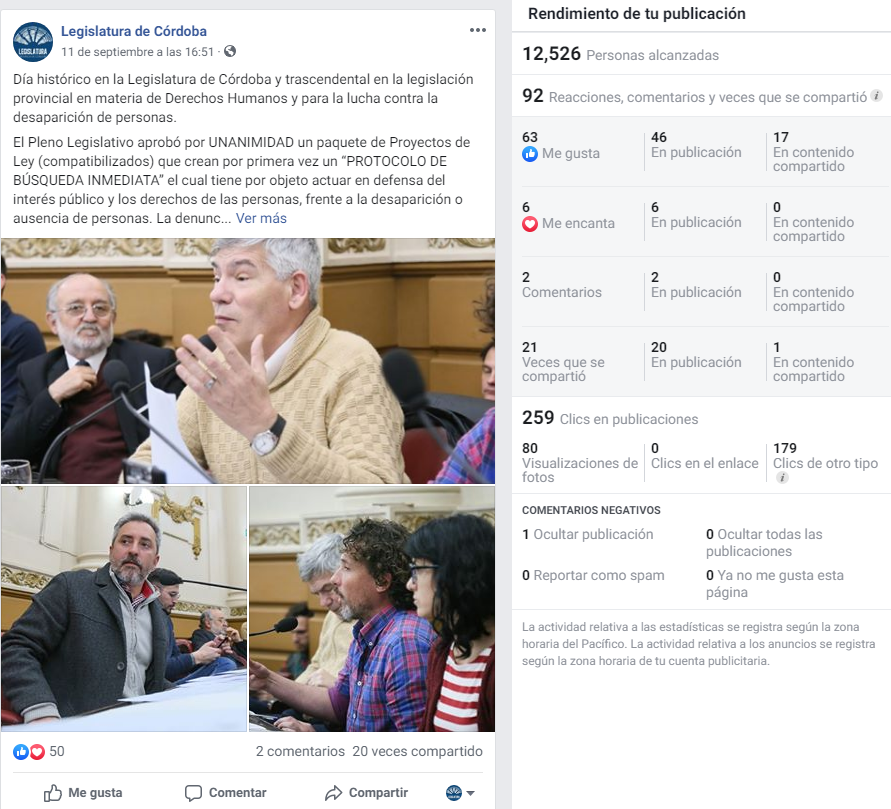
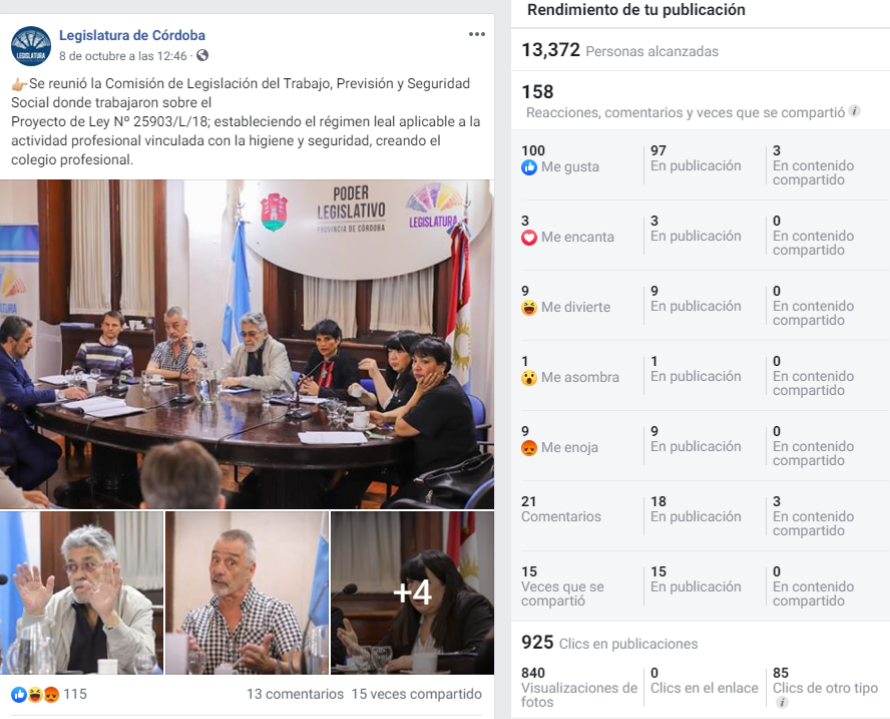
legis oct 19

diff --git a/legislatura.html b/legislatura.html
@@ -54,7 +54,7 @@
 
 	                <div class="row">
 	                    <div class="col-md-8" >
-	                    	<h2 class="text-medium">Campaña Septiembre</h2>
+	                    	<h2 class="text-medium">Campaña Octubre</h2>
 	                        <h2 class="">Objetivo:</h2>
 	                        <p><span class="objetivos">1</span> Generar posicionamiento de la marca = Alcance y seguidores</p>
 	                        <p><span class="objetivos">2</span> Generar Interacciones</p>
@@ -89,7 +89,8 @@
 							<li class=""><a href="#jun">Junio</a> </li>
 							<li class=""><a href="#jul">Julio</a> </li>
 							<li class=""><a href="#ago">Agosto</a> </li>
-							<li class="active"><a href="#sep">Septiembre</a> </li>
+							<li class=""><a href="#sep">Septiembre</a> </li>
+							<li class="active"><a href="#oct">Octubre</a> </li>
 						
 						</ul>
 						<div class="tabs-content">
@@ -202,7 +203,7 @@
 					            </div>
 							</div>
 
-							<div class="tab-pane active" id="sep">
+							<div class="tab-pane" id="sep">
 								<!-- <h4 class="text-light m-b-50">Enero</h4> -->
 								<div class="row text-light">
 									<div class="col-md-4">
@@ -238,6 +239,42 @@
 					            </div>
 							</div>
 
+							<div class="tab-pane active" id="oct">
+								<!-- <h4 class="text-light m-b-50">Enero</h4> -->
+								<div class="row text-light">
+									<div class="col-md-4">
+
+										<div class="text-center">
+											<div class="icon"><i class="fa fa-3x fa-eye"></i></div>
+											<div class="counter"> <span data-speed="2000" data-refresh-interval="23" data-to="40985" data-from="0" data-seperator="true"></span> </div>
+											<div class="seperator seperator-small"></div>
+											<p class="m-b-10"> <a href="#" data-toggle="tooltip" data-placement="top" title="Número de personas que vieron tus anuncios por lo menos una vez"><i class="fa fa-info-circle"></i></a> Alcance</p>
+										   
+										</div>
+									</div>
+									<div class="col-md-4">
+
+										<div class="text-center">
+											<div class="icon"><i class="fa fa-3x fa-hand-pointer-o"></i></div>
+											<div class="counter"> <span data-speed="1000" data-refresh-interval="50" data-to="10191" data-from="0" data-seperator="true"></span> </div>
+											<div class="seperator seperator-small"></div>
+											
+											<p class="m-b-10"><a href="#" data-toggle="tooltip" data-placement="top" title="Número total de acciones que las personas realizan en relación con tus anuncios"><i class="fa fa-info-circle"></i></a> Interacciónes con publicaciones</p>
+										</div>
+									</div>
+				                    <div class="col-md-4">
+
+				                        <div class="text-center">
+				                            <div class="icon"><i class="fa fa-3x fa-thumbs-o-up"></i></div>
+				                            <div class="counter"> <span data-speed="300" data-refresh-interval="12" data-to="6374" data-from="0" data-seperator="true"></span> </div>
+				                            <div class="seperator seperator-small"></div>
+				                            <p class="m-b-10">Seguidores Totales</p>
+				                        </div>
+				                    </div>
+				                    
+					            </div>
+							</div>
+
 						</div>
 					</div>
 				</div>
@@ -261,7 +298,7 @@
 	                            <img src="images/legislatura/captura1.png" alt="">
 								<img src="images/legislatura/captura2.png" alt="">
 								<img src="images/legislatura/captura3.png" alt="">
-								<img src="images/legislatura/captura4.png" alt="">
+								<!-- <img src="images/legislatura/captura4.png" alt=""> -->
 								<!-- <img src="images/legislatura/captura5.png" alt=""> -->
 	                        </div>
 	                    </div>
